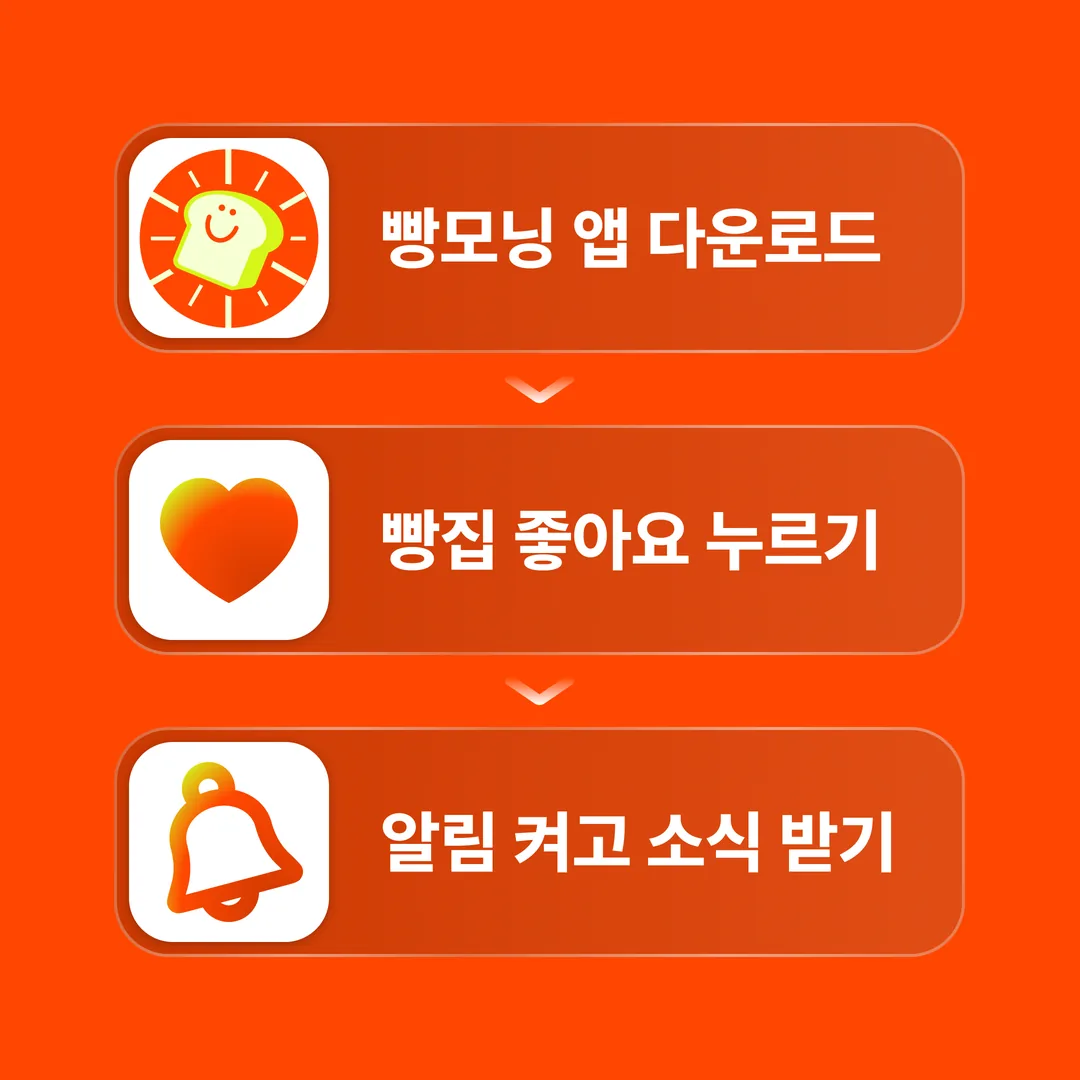
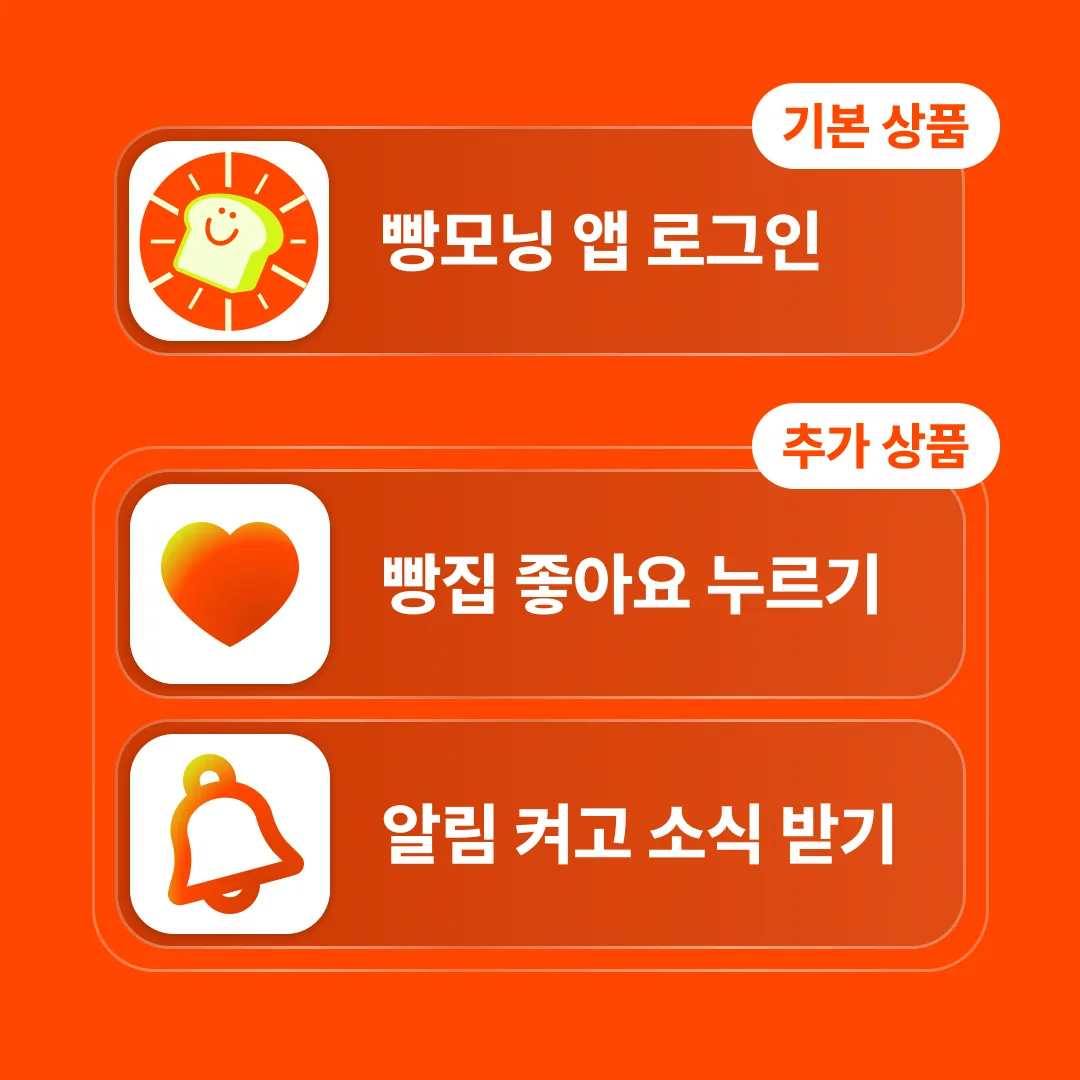
[이벤트] 빵력장터 안내 v18 — 앱 다운로드 이벤트 이미지(기본/추가 상품) 교체·설명(랜덤 상품·가챠 뽑기권) 갱신

Changed region(s): [[0.0917, 0.0611, 0.9472, 0.9167], [0.3361, 0.7333, 0.825, 0.825]]

diff --git a/events/bbangryeok-market/index.html b/events/bbangryeok-market/index.html
@@ -152,7 +152,7 @@
   "events": [
     { "title": "빵모닝 앱 다운로드 이벤트",
       "image": "assets/event-app-download.webp", "imageFit": "cover", "aspect": "1 / 1",
-      "desc": "빵모닝 앱을 다운로드하고 마음에 드는 빵집에 좋아요를 누른 뒤 알림을 켜 주세요. 완료한 화면을 1F 빵모닝 이벤트 존에서 보여주시면 선착순으로 선물을 드립니다. 준비한 선물이 소진되면 마감돼요.",
+      "desc": "기본 상품: 빵모닝 앱을 다운로드하고 로그인한 화면을 1F 빵모닝 이벤트 존에서 보여주시면 랜덤 상품을 드려요.\n추가 상품: 마음에 드는 빵집에 좋아요를 누르고 알림까지 켜면 가챠 뽑기권 1개를 더 드려요.",
       "time": "" },
     { "title": "빵모닝 굿즈존",
       "image": "assets/goods-bandana-1.webp", "imageFit": "cover",
@@ -390,7 +390,7 @@
     filter: drop-shadow(0 10px 18px rgba(116, 12, 165, .18));
   }
   .event-title { margin: 0; font-family: var(--font-body); font-weight: 800; font-size: 18px; line-height: 1.3; text-wrap: balance; color: var(--ink); }
-  .event-desc { margin: 0; color: var(--ink-2); font-size: 14px; }
+  .event-desc { margin: 0; color: var(--ink-2); font-size: 14px; white-space: pre-line; }
   .event-time { margin: 0; font-size: 13px; font-weight: 700; color: var(--magenta-deep); display: flex; gap: 6px; align-items: center; }
   .event-time::before { content: ""; width: 6px; height: 6px; border-radius: 50%; background: var(--pink); }
 
